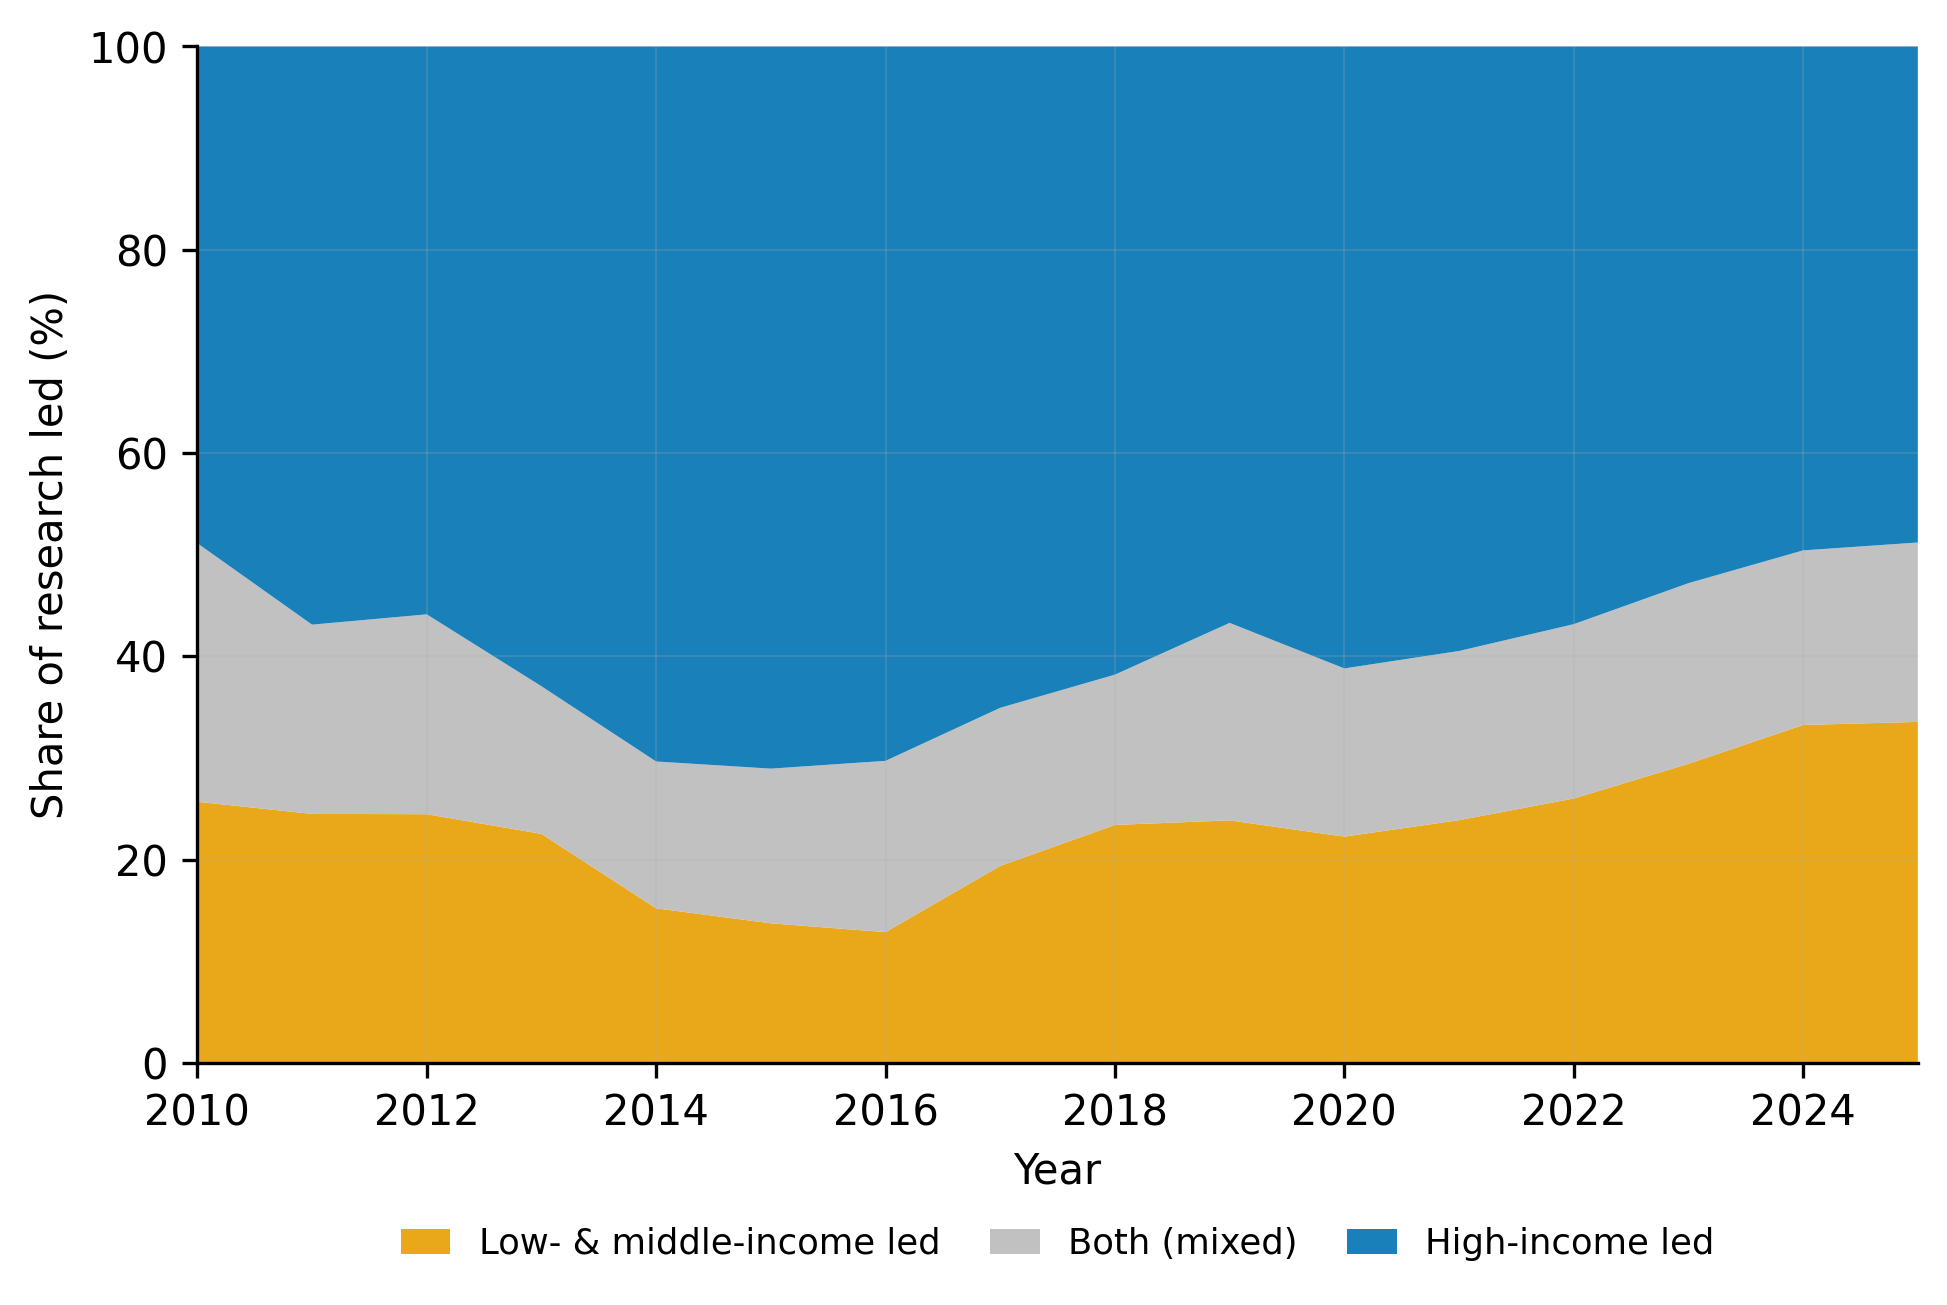
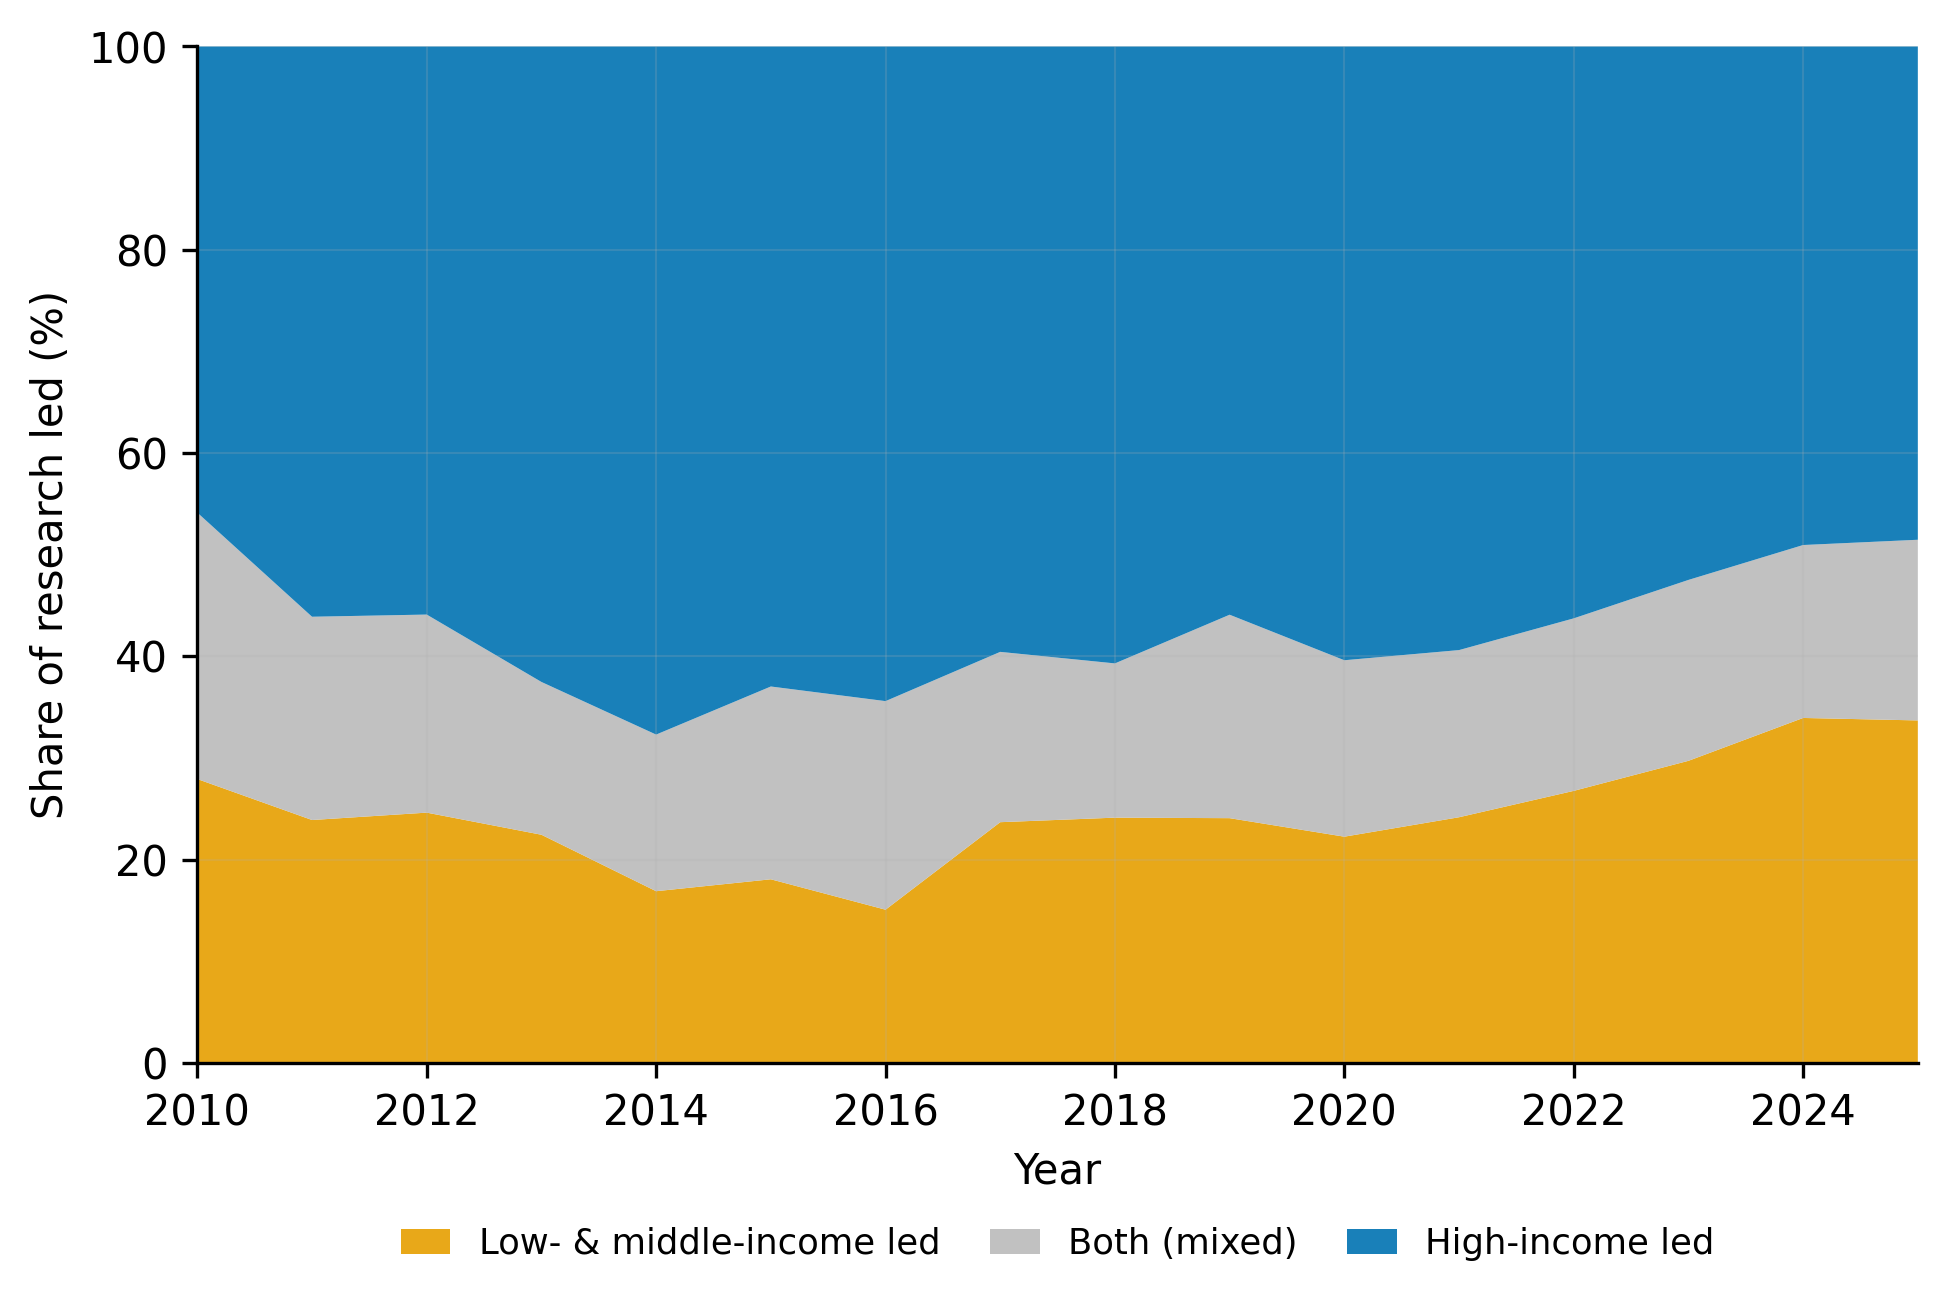
Exclude no-abstract papers from institution analyses
No-abstract papers were never content-classified; their metadata is less
reliable and some are non-articles. Restrict the institutions analyses to the
research-article subset in both the dashboard (institutions page base filter)
and the paper's Fig 5, so no-abstract papers are excluded everywhere.

diff --git a/paper/figures/make_figures.py b/paper/figures/make_figures.py
@@ -204,12 +204,12 @@ def fig4_topic_share():
 # ---------------------------------------------------------------- Figure 5
 def fig5_north_south_leadership():
     hi = tuple(HIGH_INCOME_ISO2)
+    # Research-article subset (n = 19,035), consistent with the rest of the
+    # Producing Institutions section (institution counts, concentration, etc.).
     q = f"""WITH pc AS (
         SELECT DISTINCT a.openalex_id wid, w.publication_year yr, a.institution_country cc
         FROM authorships a JOIN works w ON a.openalex_id = w.openalex_id
-        WHERE w.publication_year BETWEEN {Y0} AND {Y1}
-          AND (w.topic_category IS NULL OR w.topic_category NOT IN ('Z'))
-          AND (w.method_type IS NULL OR w.method_type NOT IN ('M14','M15','M18'))
+        WHERE {SUB} AND w.publication_year BETWEEN {Y0} AND {Y1}
           AND a.position IN ('first','last')
           AND a.institution_country IS NOT NULL AND a.institution_country <> ''),
     pg AS (SELECT wid, yr,

diff --git a/dashboard/pages/institutions.py b/dashboard/pages/institutions.py
@@ -52,7 +52,12 @@ def page():
     ne_placeholders = ', '.join(['?'] * len(NON_EMPIRICAL_METHODS))
     ne_clause = (f" AND (w.method_type IS NULL "
                  f"OR w.method_type NOT IN ({ne_placeholders}))")
-    base_where = f"WHERE TRUE {where}{uc_clause}{ne_clause}"
+    # Restrict to the research-article subset: exclude papers with no usable
+    # abstract (never classified). Their content could not be verified and the
+    # records are more likely to be non-articles, so they are dropped from all
+    # institution analyses, consistent with the rest of the analytic lenses.
+    base_where = (f"WHERE TRUE {where}{uc_clause}{ne_clause} "
+                  f"AND w.classified_topic AND w.classified_method")
     params = where_params + list(UNCATEGORIZED_TOPICS) + list(NON_EMPIRICAL_METHODS)
 
     # Umbrella names (e.g. "Ministry of Health") that OpenAlex shares across
